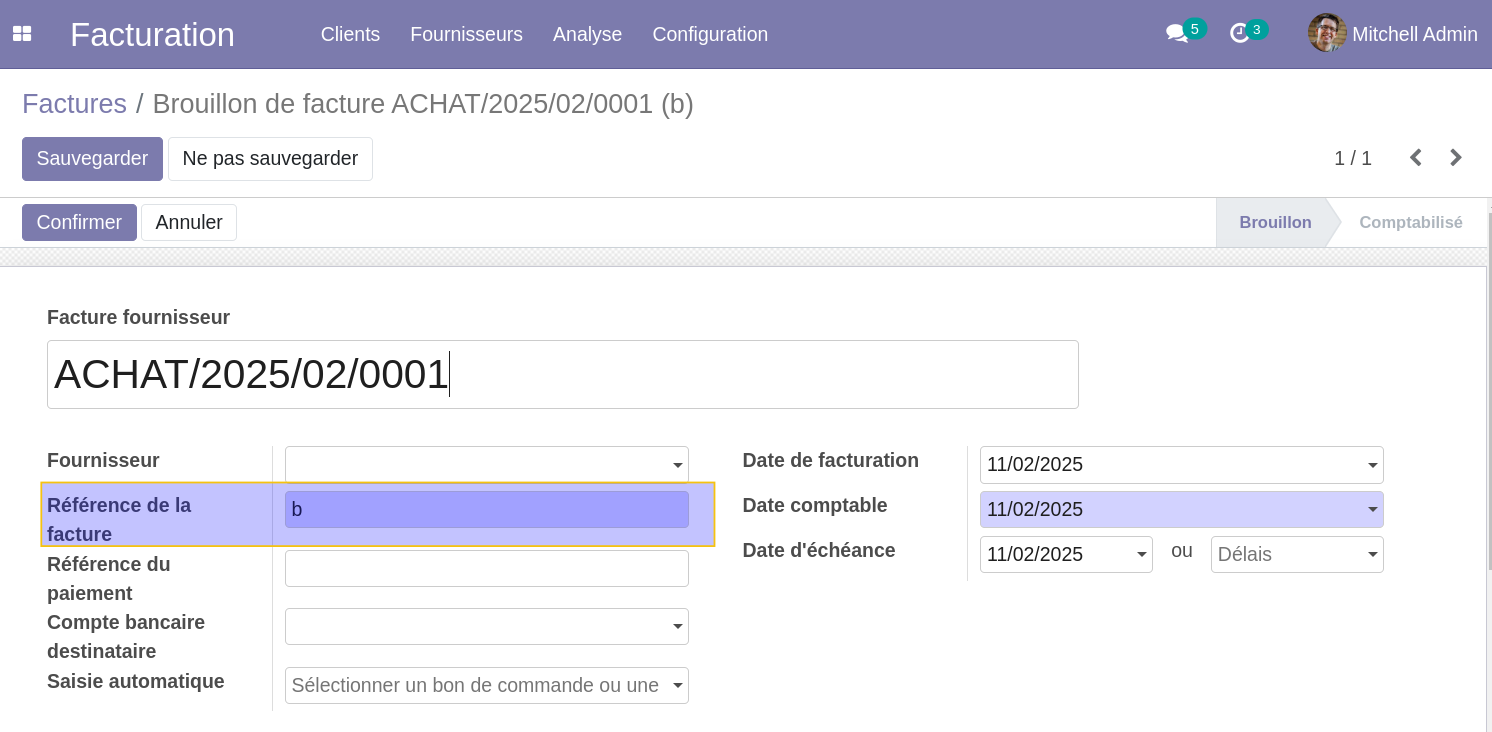
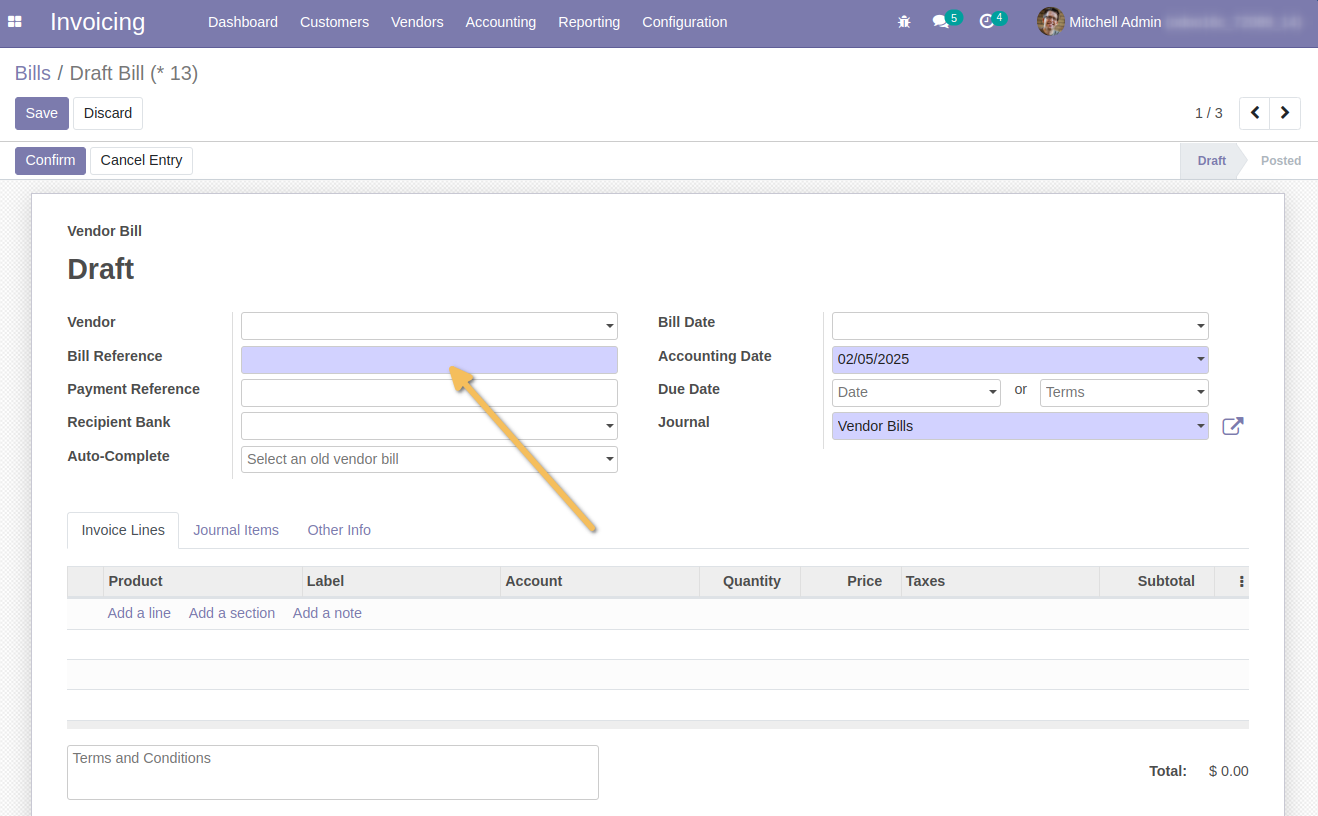
Code quality

diff --git a/account_move_supplier_ref_required/__manifest__.py b/account_move_supplier_ref_required/__manifest__.py
@@ -3,16 +3,17 @@
 
 
 {
-    "name": "Account Move Supllier Ref Required",
-    "summary": "",
-    "version": "14.0.1.0.1",
+    "name": "Account Move Supplier Ref Required",
+    "version": "14.0.1.0.0",
     "website": "https://bit.ly/numigi-com",
     "author": "Numigi",
     "maintainer": "Numigi",
     "license": "AGPL-3",
+    "summary": "Enforce that a bill reference is required on vendor bill.",
     "depends": ["account"],
     "data": [
         "views/account_move_views.xml",
     ],
     "installable": True,
+    "application": False,
 }

diff --git a/account_move_supplier_ref_required/README.rst b/account_move_supplier_ref_required/README.rst
@@ -1,9 +1,9 @@
 Account Move Supplier Ref Required
 ==================================
 
-This module makes the ref field on account.move required from the form view.
+This module makes the `Bill Reference` is required on the `Vendor Bill` form view.
 
-.. image:: static/description/account_move_form.png
+.. image:: https://raw.githubusercontent.com/Numigi/odoo-account-addons/14.0/account_move_supplier_ref_required/static/description/account_move_form.png
 
 Configuration
 -------------
